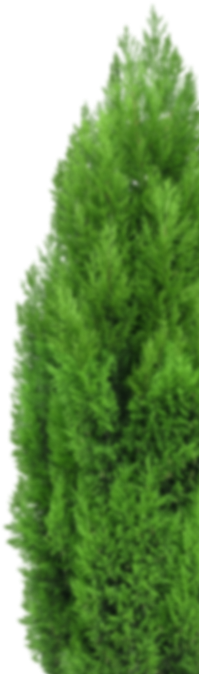
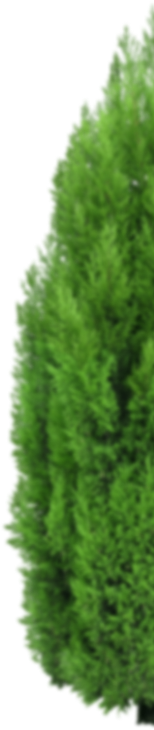
Contacts redid

diff --git a/index.html b/index.html
@@ -942,7 +942,7 @@
 					</div>
 					<div class="ourHorses__sliderCheckbox sliderCheckbox">
 						<button class="btn_prev"><div class="arrow_prev"></div></button>
-						<div id="scrollBar" class="swiper-scrollbar-1"></div>
+						<div class="scrollBar swiper-scrollbar-1"></div>
 						<button class="btn_next"><div class="arrow_next"></div></button>
 					</div>
 				</div>
@@ -1099,37 +1099,21 @@
 						</div>
 					</div>
 					<div class="clientSpeakAboutUs__sliderCheckbox sliderCheckbox">
-						<button id="btnPrevClientsSp" class="btn_prev swiper-prev"><div class="arrow_prev"></div></button>
-						<div id="scrollBar" class="swiper-scrollbar-2"></div>
-						<button id="btnNextClientsSp" class="btn_next swiper-next"><div class="arrow_next"></div></button>
+						<button class="btn_prev"><div class="arrow_prev"></div></button>
+						<div class="scrollBar swiper-scrollbar-2"></div>
+						<button class="btn_next"><div class="arrow_next"></div></button>
 					</div>
 				</div>
 			</section>
 			<section class="contacts">
+				<iframe class="contacts__bg_map" src="https://www.google.com/maps/embed?pb=!1m14!1m12!1m3!1d2569.944986176342!2d36.21953096462164!3d49.89983614960911!2m3!1f0!2f0!3f0!3m2!1i1024!2i768!4f13.1!5e0!3m2!1sru!2sua!4v1666811284735!5m2!1sru!2sua" width="1920" height="1080" style="border:0;" allowfullscreen="" loading="lazy" referrerpolicy="no-referrer-when-downgrade"></iframe>
+				<div class="contacts__bg_leftTree">
+					<img src="img/contacts/bg/x1920/leftTree_x1920.png" alt="left_tree">
+				</div>
+				<div class="contacts__bg_rightTree">
+					<img src="img/contacts/bg/x1920/right_tree_x1920.png" alt="right_tree">
+				</div>
 				<div class="contacts__container _container">
-					<div class="contacts__bg">
-						<div class="contacts__bg_map">
-							<picture>
-								<source srcset="img/contacts/bg/x1920/bg_x1920.jpg" type="image/jpeg" media="(min-width:1920px)">
-								<source srcset="img/contacts/bg/x1000/bg_x1000.jpg" type="image/jpeg" media="(min-width:1000px)">
-								<source srcset="img/contacts/bg/x768/bg_x768.jpg" type="image/jpeg" media="(min-width:768px)">
-								<source srcset="img/contacts/bg/x480/bg_x480.jpg" type="image/jpeg" media="(min-width:480px)">
-								<img src="img/contacts/bg/x320/bg_x320.jpg" alt="map">
-							</picture>
-						</div>
-						<div class="contacts__bg_leftTree">
-							<picture>
-								<source srcset="img/contacts/bg/x1920/leftTree_x1920.png" type="image/jpeg" media="(min-width:1920px)">
-								<img src="img/contacts/bg/x1920/leftTree_x1920.png" alt="left_tree">
-							</picture>
-						</div>
-						<div class="contacts__bg_rightTree">
-							<picture>
-								<source srcset="img/contacts/bg/x1920/right_tree_x1920.png" type="image/jpeg" media="(min-width:1920px)">
-								<img src="img/contacts/bg/x1920/right_tree_x1920.png" alt="right_tree">
-							</picture>
-						</div>
-					</div>
 					<div class="contacts__square">
 						<div class="square__container">
 							<div class="square__title"><h2>Контакты</h2></div>
@@ -1180,6 +1164,7 @@
 						<img class="contacts__map_pont" src="img/contacts/icons/x1000/pinGreen_x1000.svg" alt="point_on_a_map">
 					</picture>
 				</div>
+				
 			</section>
 			<footer class="footer">
 				<div class="footer__container _container">

diff --git a/css/clientsSpeakAboutUs.css b/css/clientsSpeakAboutUs.css
@@ -1,28 +1,34 @@
 .clientSpeakAboutUs__container {
-	width: 320px;
+	max-width: 100%;
+	height: 748px;
+	padding: 0px 15px;
 	overflow: hidden;
 	margin: 0 auto;
-  }
-  @media (min-width: 480px){
-	  .clientSpeakAboutUs__container {
-	  width: 480px;
-	  }
-  }
-  @media (min-width: 768px){
-	  .clientSpeakAboutUs__container {
-	  width: 748px;
-	  }
-  }
-  @media (min-width: 1000px){
-	  .clientSpeakAboutUs__container {
-	  width: 1000px;
-	  }
-  }
-  @media (min-width: 1920px){
-	  .clientSpeakAboutUs__container {
-	  width: 1900px;
-	  }
-  }
+}
+@media (min-width: 480px){
+	.clientSpeakAboutUs__container {
+		width: 480px;
+		padding: 0;
+		height: 786px;
+	}
+}
+@media (min-width: 768px){
+	.clientSpeakAboutUs__container {
+		width: 748px;
+		height: 510px;
+	}
+}
+@media (min-width: 1000px){
+	.clientSpeakAboutUs__container {
+		width: 1000px;
+		height: 650px;
+	}
+}
+@media (min-width: 1920px){
+	.clientSpeakAboutUs__container {
+		width: 1900px;
+	}
+}
   .clientSpeakAboutUs__title{
 	  margin: 70px 0 30px;
   }
@@ -90,35 +96,8 @@
 	  .feedbacks__card_container {
 		  padding: 38.5px 43.5px 33.5px;
 		  width: 570px;
-		  /* margin: 0 15px; */
 	  }
   }
-  /* @media (min-width: 1920px){
-	  .feedbacks__card_container:first-child{
-		  position: relative;
-		  top: -40px;
-		  opacity: 0.4;
-		  display: block;
-	  }
-  } */
-  /* @media (min-width: 480px){
-	  .feedbacks__card_container:nth-child(3){
-		  display: block;
-	  }
-  } */
-  /* @media (min-width: 1000px){
-	  .feedbacks__card_container:last-child{
-		  display: block;
-	  }
-  } */
-  /* @media (min-width: 1920px){
-	  .feedbacks__card_container:last-child{
-		  position: relative;
-		  top: -40px;
-		  opacity: 0.4;
-		  margin-right: 0;
-	  }
-  } */
   .feedbacks__card_container > .card__text {
 	  font-size: 13px;
 	  line-height: 21px;

diff --git a/css/contacts.css b/css/contacts.css
@@ -19,46 +19,45 @@
 }
 .contacts__container {
 	max-width: 320px;
-	margin: 70px auto 0;
+	height: 748px;
+	margin:0 auto;
 	position: relative;
-	overflow: hidden;
 }
 @media (min-width: 480px){
 	.contacts__container{
 		max-width: 480px;
-		margin: 100px auto 0;
+		height: 786px;
 	}
 }
 @media (min-width: 768px){
 	.contacts__container{
 		max-width: 748px;
-		margin: 90px auto 0;
+		height: 510px;
 	}
 }
 @media (min-width: 1000px){
 	.contacts__container{
 		max-width: 1000px;
-		margin: 120px auto 0;
+		height: 650px;
 	}
 }
 @media (min-width: 1920px){
 	.contacts__container{
 		max-width: 1900px;
-		margin: 150px auto 0;
 	}
 }
-.contacts__bg{
-	position: relative;
-	overflow: hidden;
+.contacts__bg_map{
+	position: absolute;
+	z-index: -1000;
 }
 .contacts__bg_leftTree{
 	display: none;
 }
-@media (min-width: 1920px){
+@media (min-width: 1366px){
 	.contacts__bg_leftTree{
 		display: block;
 		position: absolute;
-		top: 362px;
+		top: 365px;
 		left: 0;
 		z-index: 5;
 	}
@@ -66,12 +65,12 @@
 .contacts__bg_rightTree{
 	display: none;
 }
-@media (min-width: 1920px){
+@media (min-width: 1366px){
 	.contacts__bg_rightTree{
 		display: block;
 		position: absolute;
-		top: 118px;
-		left: 1722px;
+		top: 58px;
+		right: 0;
 		z-index: 5;
 	}
 }

diff --git a/js/script.js b/js/script.js
@@ -205,3 +205,43 @@ function defineSlidesToLiftUpIndexes(slider){
 	}
 	
 })();
+
+(function changeContactsMapSize(){
+
+	let screenResolution = document.documentElement.clientWidth;
+	let fullScreenResolution = window.innerWidth;
+	let map = document.querySelector(".contacts__bg_map");
+	map.width = screenResolution;
+	if(fullScreenResolution < 480) {
+		map.height = 748;
+	}
+	if(fullScreenResolution >= 480 && fullScreenResolution < 768) {
+		map.height = 786;
+	}
+	if(fullScreenResolution >= 768 && fullScreenResolution < 1000) {
+		map.height = 510;
+	}
+	if(fullScreenResolution >= 1000) {
+		map.height = 650;
+	}
+
+	window.addEventListener("resize", function(){
+	
+		screenResolution = document.documentElement.clientWidth;
+		fullScreenResolution = window.innerWidth;
+		map.width = screenResolution;
+		if(fullScreenResolution < 480) {
+			map.height = 748;
+		}
+		if(fullScreenResolution >= 480 && fullScreenResolution < 768) {
+			map.height = 786;
+		}
+		if(fullScreenResolution >= 768 && fullScreenResolution < 1000) {
+			map.height = 510;
+		}
+		if(fullScreenResolution >= 1000) {
+			map.height = 650;
+		}
+	})
+
+})()

diff --git a/css/components.css b/css/components.css
@@ -123,7 +123,7 @@
 /* ============================================================================
 		 slider SWIPER (ourHorses)
 =============================================================================*/
-#scrollBar{
+.scrollBar{
 	position: static;
 	width: 96px;
 	height: 8px;
